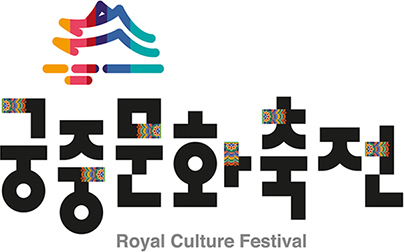
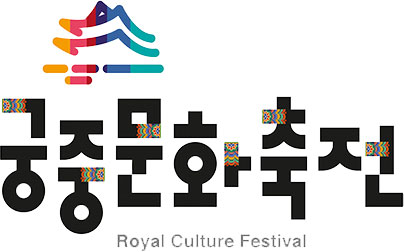
Gyu_0516_1045

diff --git a/FI 소개/FI 소개.html b/FI 소개/FI 소개.html
@@ -104,7 +104,7 @@
         <section class="rogo-type">
             <div class="container">
                 <h3>로고 타입</h3>
-                <img src="./images/fi_logotype.jpg" alt="로고 타입">
+                <img src="./images/fi_logotype.png" alt="로고 타입">
                 <p class="info2">메인 로고타이프는 궁중문화축전 아이덴티티의 핵심요소로서,<br>
                     궁중문화축전 관련 모든 매체에 활용되며 축전의 이미지를 대표합니다.<br>
                     궁중문화축전 메인 로고타이프 활용 시 철저한 관리가 필요하며<br>
@@ -137,7 +137,7 @@
         <section class="main-signature">
             <div class="container">
                 <h3>메인 시그니처</h3>
-                <img src="./images/fi_main_sig.jpg" alt="메인 시그니처">
+                <img src="./images/fi_main_sig.png" alt="메인 시그니처">
                 <p class="info4">메인 시그니처는 메인 로고타이프와 심볼마크의 조합으로 이루어진 조형이며<br>
                     궁중문화축전 관련 매체에 다양하게 활용되어 아이덴티티를 효과적으로 완성합니다.<br>
                     궁중문화축전 메인시그니처 활용시 철저한 관리가 필요하며<br>
@@ -154,15 +154,15 @@
                 <div class="useno">
                     <h2>사용금지규정</h2>
                 </div><!--useno-->
-                        <div class="useno-ex">
-                            <img src="./images/fi_nouse1.png" alt="사용금지규정1">
-                            <img src="./images/fi_nouse2.png" alt="사용금지규정2">
-                            <img src="./images/fi_nouse3.png" alt="사용금지규정3">
-                            <img src="./images/fi_nouse4.png" alt="사용금지규정4">
-                            <img src="./images/fi_nouse5.png" alt="사용금지규정5">
-                            <img src="./images/fi_nouse6.png" alt="사용금지규정6">
-                        </div><!--useno-ex-->
             </div><!--container-->
+                <div class="useno-ex">
+                    <img src="./images/fi_nouse1.png" alt="사용금지규정1">
+                    <img src="./images/fi_nouse2.png" alt="사용금지규정2">
+                    <img src="./images/fi_nouse3.png" alt="사용금지규정3">
+                    <img src="./images/fi_nouse4.png" alt="사용금지규정4">
+                    <img src="./images/fi_nouse5.png" alt="사용금지규정5">
+                    <img src="./images/fi_nouse6.png" alt="사용금지규정6">
+                </div><!--useno-ex-->
         </section><!--useno-box-->
     
 

diff --git a/축전소개/scss/축전소개.scss b/축전소개/scss/축전소개.scss
@@ -95,25 +95,38 @@
 
     .year-arr {
         margin-top: 95px;
+
         .year {
             font: 20px 'Pretendard';
             display: flex;
             line-height: 1.5;
+
+            &:hover {
+                text-decoration: line-through;
+            }
         }
     }
 
     .num-festi {
+        width: 200px; height: 160px;
+        content: "";
         position: absolute;
-        top: 243px; right: 217px;
-        width: 244px;
-        height: 160px;
-        background-color: white;
+        top: 70%;
+        right: 40%;
+        background-color: rgba(255, 255, 255, 0.7);
+        transform: translateY(-50%);
+
+        padding: 20px 5px 25px 40px;
+
+        z-index: 1;
 
         strong {
             font: 28px 'Pretendard';
         }
 
         .more {
+            position: absolute;
+            right: 25px;
             width: 83px;
             height: 35px;
             background-color: #251a06;
@@ -128,10 +141,10 @@
 
     img {
         position: absolute;
-        top: 0; right: 0;
+        top: 35px; right: 0;
 
-        width: 325px;
-        height: 458px;
+        width: 225px;
+        height: 325px;
     }
 
 }

diff --git a/FI 소개/scss/FI 소개.scss b/FI 소개/scss/FI 소개.scss
@@ -251,14 +251,18 @@
                 margin: 130px auto 100px;
 
                 h2 {
-                    font: 48px 'Pretendard';  
+                    font: 48px 'Pretendard'; 
+                    text-align: center;
                 }
             }
 
-            div {
-                display: flex;
-                justify-content: space-between;
-                flex-wrap: wrap;
+            .useno-ex {
+                    display: grid;
+                    grid-template-columns: repeat(3, 1fr);
+                    grid-gap: 10px;
+                    grid-template-rows: 400px;
+                    width: 100%;
+                    max-width: 1920px;
             }
         }
     }
@@ -298,7 +302,7 @@
                     background-color: $color-hover;
                     color: white;
                     border: none;
-                    font: 48px 'Pretendard';
+                    font: 28px 'Pretendard';
                     cursor: pointer;
                 }
             }

diff --git a/축전소개/css/축전소개.css b/축전소개/css/축전소개.css
@@ -79,18 +79,27 @@
   display: flex;
   line-height: 1.5;
 }
+.history .year-arr .year:hover {
+  text-decoration: line-through;
+}
 .history .num-festi {
-  position: absolute;
-  top: 243px;
-  right: 217px;
-  width: 244px;
+  width: 200px;
   height: 160px;
-  background-color: white;
+  content: "";
+  position: absolute;
+  top: 70%;
+  right: 40%;
+  background-color: rgba(255, 255, 255, 0.7);
+  transform: translateY(-50%);
+  padding: 20px 5px 25px 40px;
+  z-index: 1;
 }
 .history .num-festi strong {
   font: 28px "Pretendard";
 }
 .history .num-festi .more {
+  position: absolute;
+  right: 25px;
   width: 83px;
   height: 35px;
   background-color: #251a06;
@@ -101,8 +110,8 @@
 }
 .history img {
   position: absolute;
-  top: 0;
+  top: 35px;
   right: 0;
-  width: 325px;
-  height: 458px;
+  width: 225px;
+  height: 325px;
 }/*# sourceMappingURL=축전소개.css.map */

diff --git a/FI 소개/css/FI 소개.css b/FI 소개/css/FI 소개.css
@@ -198,11 +198,15 @@ hr {
   }
   .useno-box .useno h2 {
     font: 48px "Pretendard";
+    text-align: center;
   }
-  .useno-box div {
-    display: flex;
-    justify-content: space-between;
-    flex-wrap: wrap;
+  .useno-box .useno-ex {
+    display: grid;
+    grid-template-columns: repeat(3, 1fr);
+    grid-gap: 10px;
+    grid-template-rows: 400px;
+    width: 100%;
+    max-width: 1920px;
   }
 }
 
@@ -237,7 +241,7 @@ hr {
     background-color: #ffbe0f;
     color: white;
     border: none;
-    font: 48px "Pretendard";
+    font: 28px "Pretendard";
     cursor: pointer;
   }
 }/*# sourceMappingURL=FI 소개.css.map */
